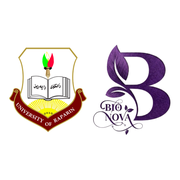
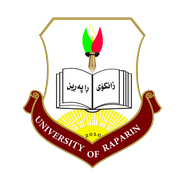
update

diff --git a/tests/Feature/HomePageTest.php b/tests/Feature/HomePageTest.php
@@ -192,13 +192,6 @@ class HomePageTest extends TestCase
         }
     }
 
-    public function test_the_about_section_shows_the_bionova_mark(): void
-    {
-        $this->get('/')
-            ->assertSee(asset('file/bionova-logo.webp'), false)
-            ->assertSee('alt="BioNova"', false);
-    }
-
     public function test_the_page_loads_its_stylesheet_from_the_build(): void
     {
         // The Tailwind CDN used to compile the stylesheet in the browser.
